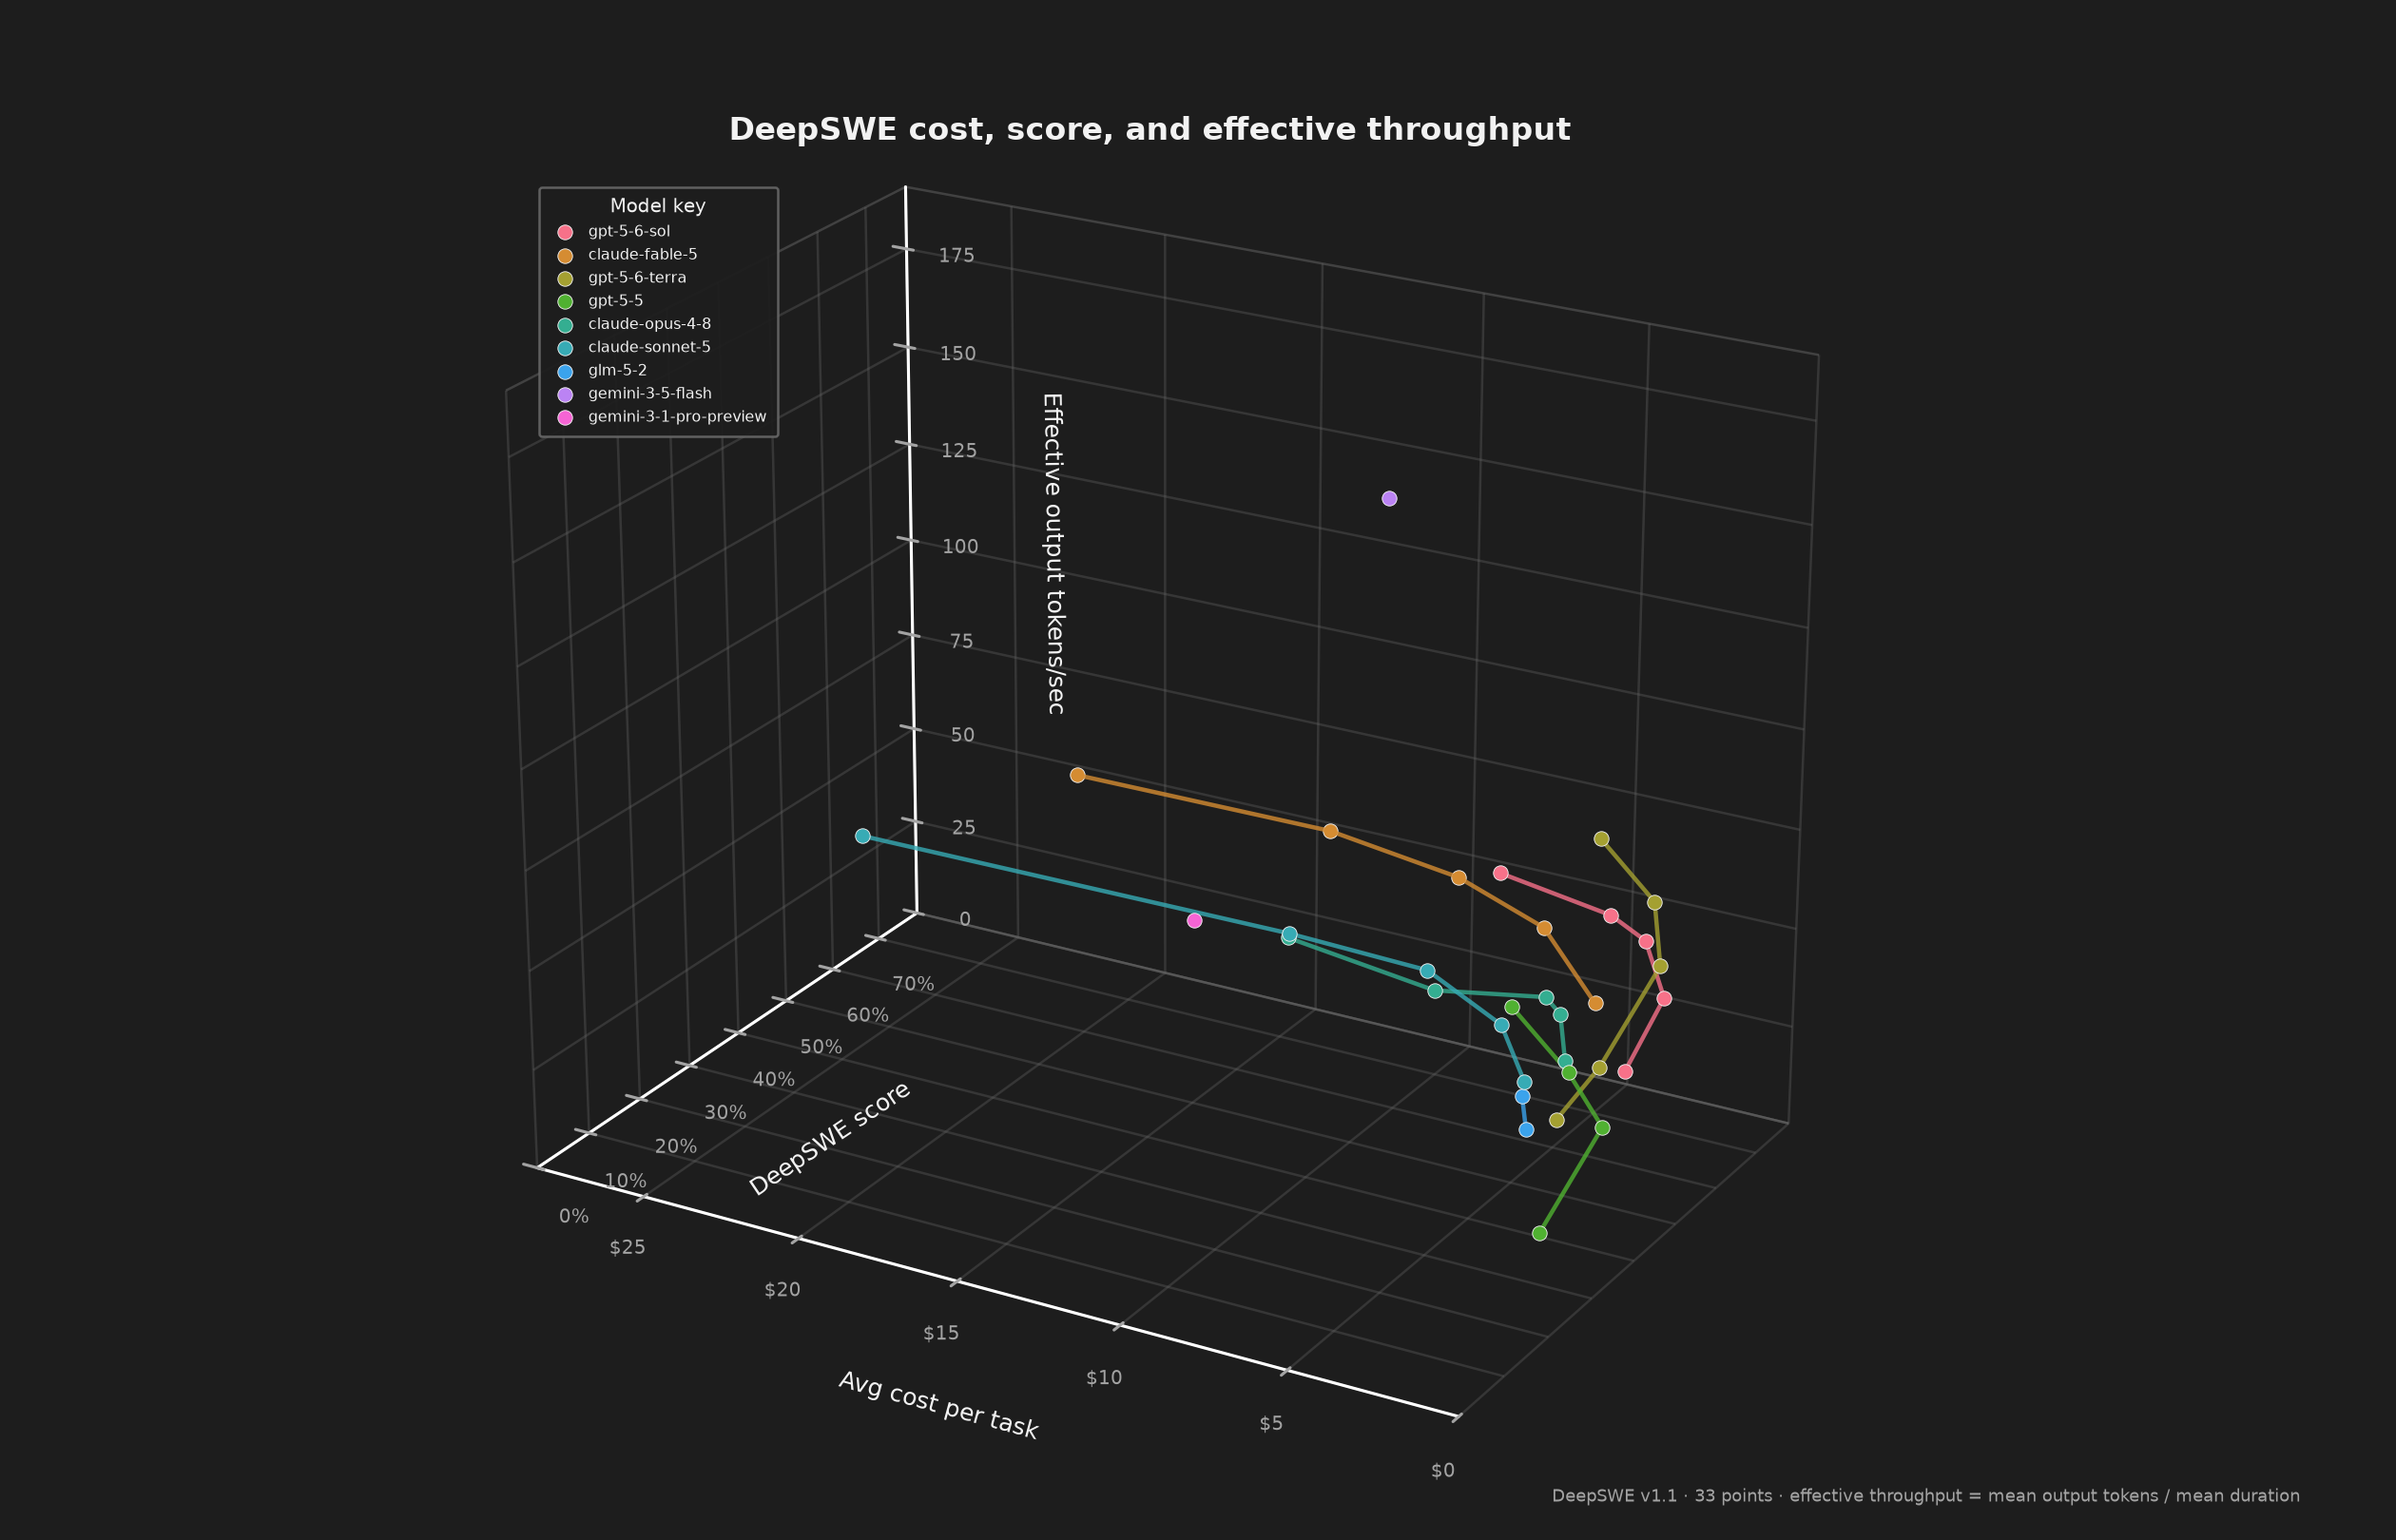
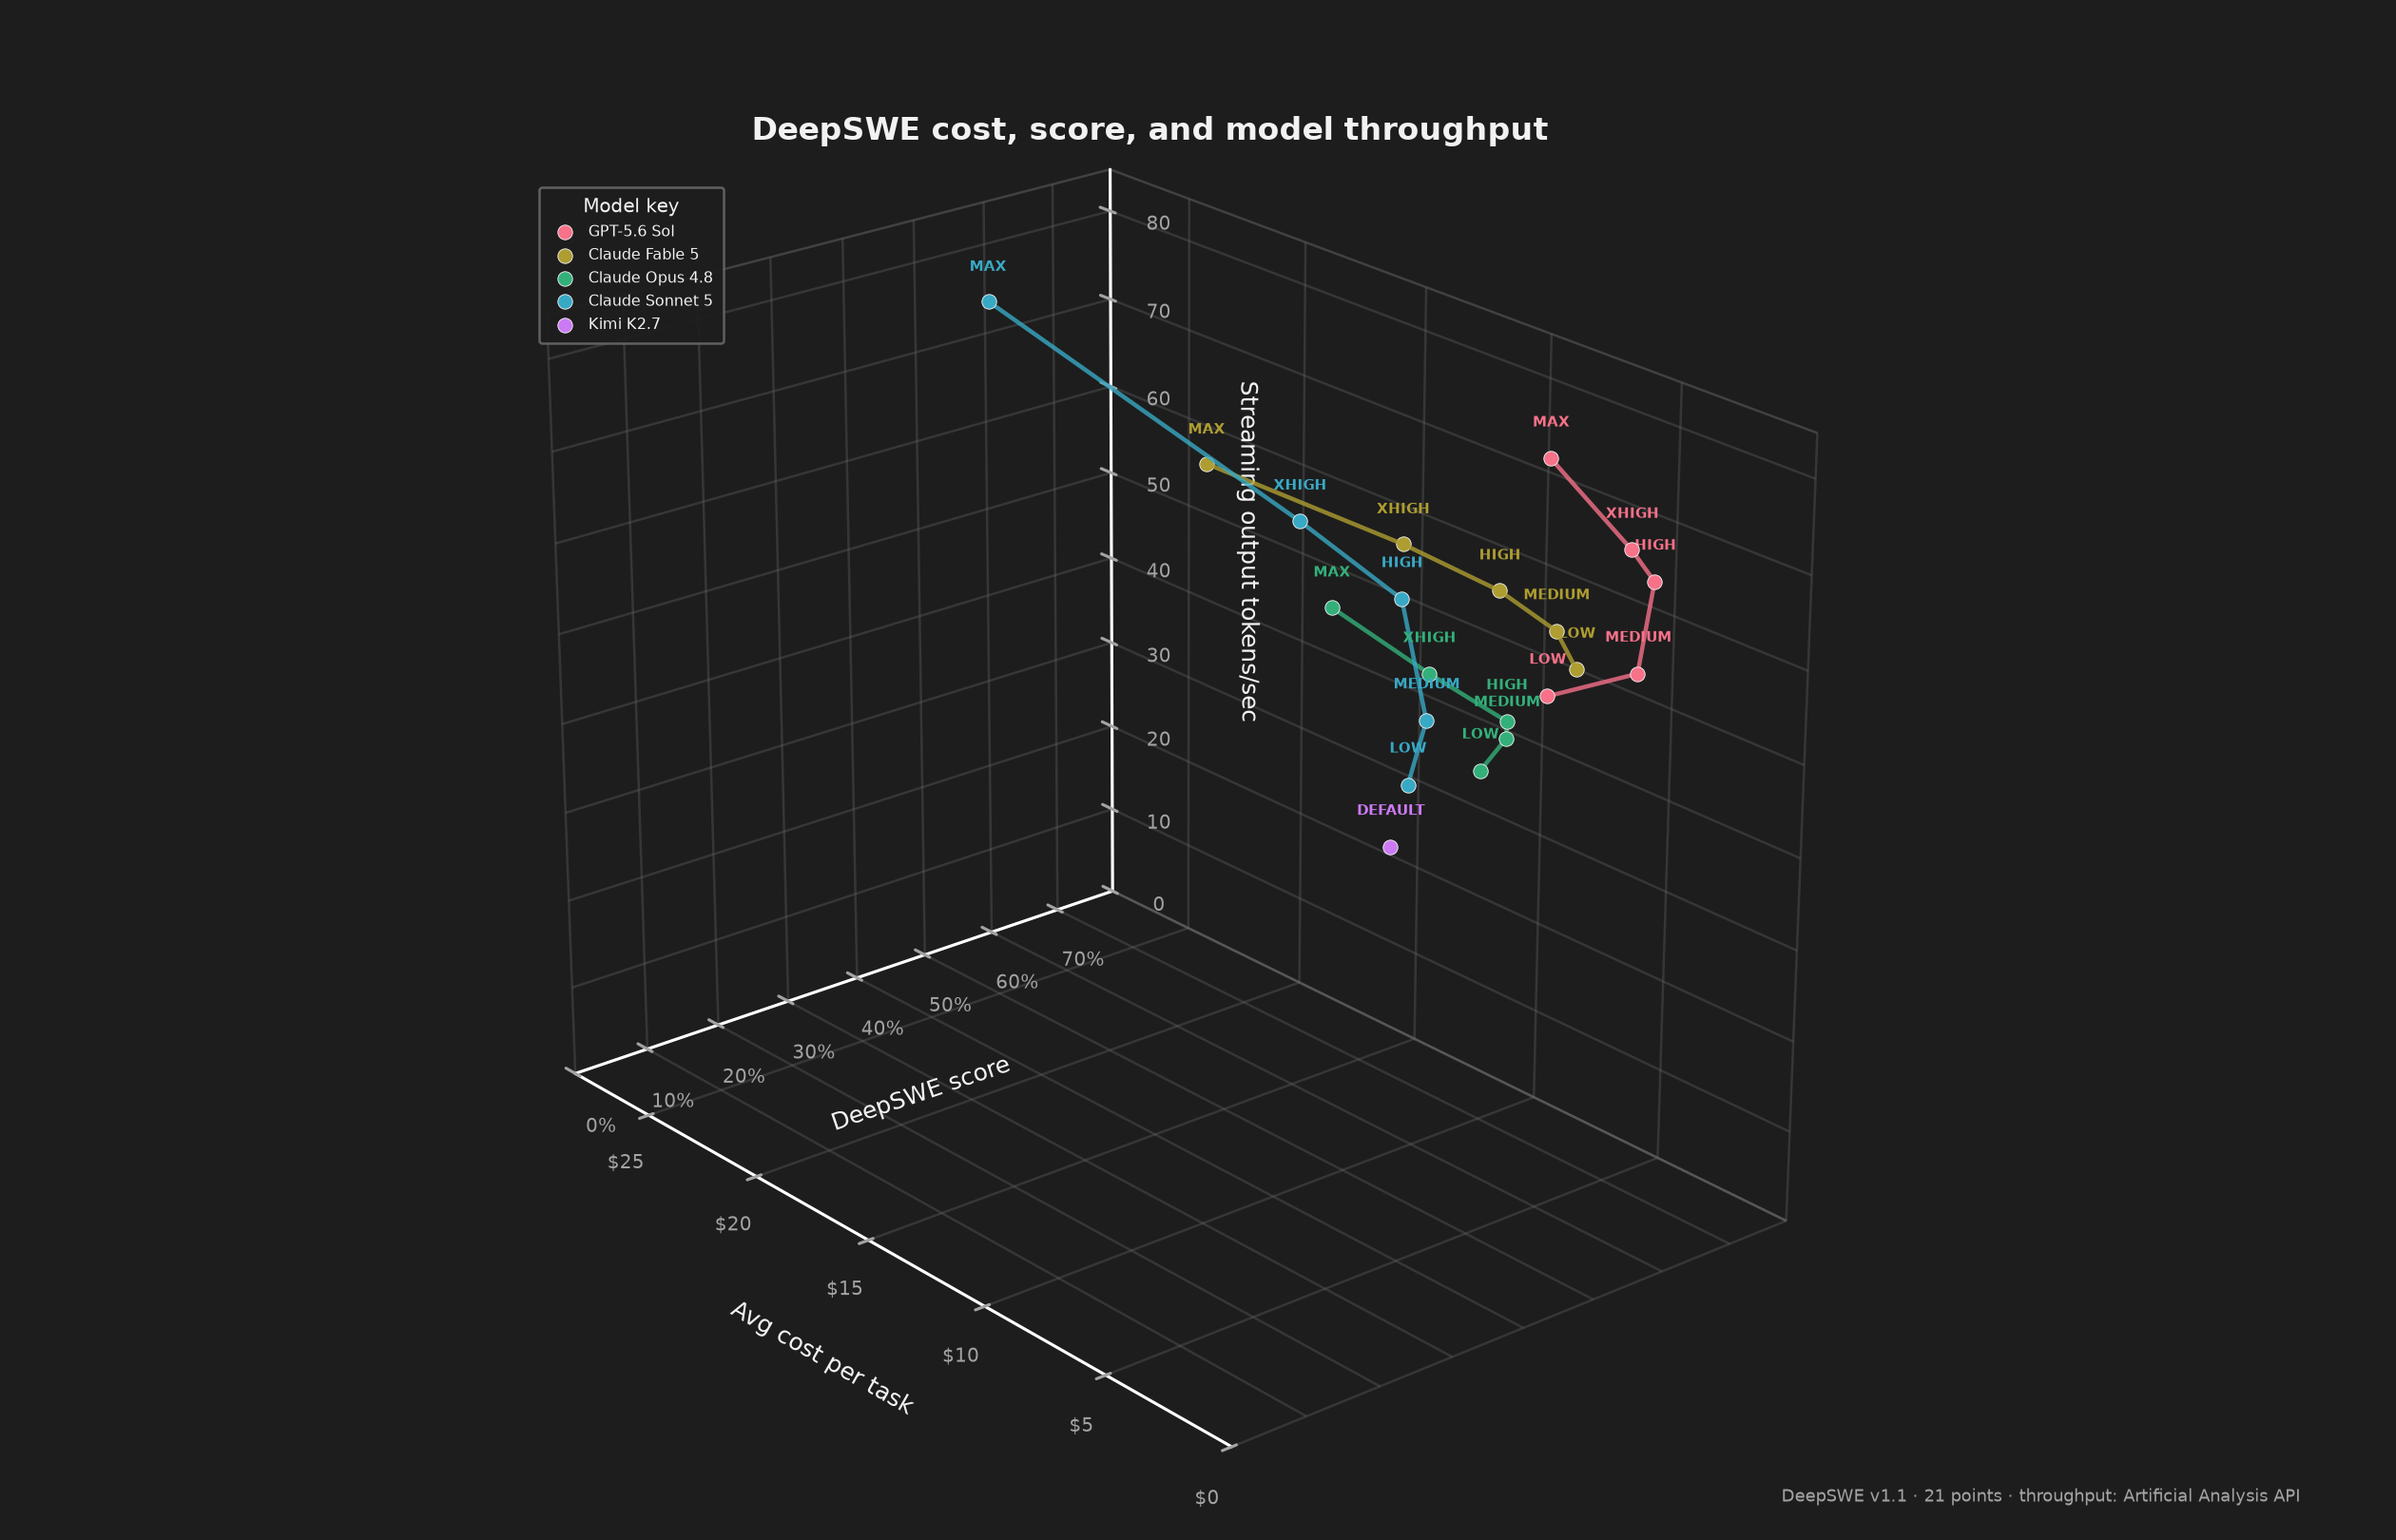
Add Artificial Analysis API integration and new cost-throughput chart

diff --git a/deepswe-score-chart.py b/deepswe-score-chart.py
@@ -1,55 +1,86 @@
 import argparse
 import json
+import os
 from collections import defaultdict
 from pathlib import Path
-from urllib.request import urlopen
+from urllib.request import Request, urlopen
 
 import matplotlib.pyplot as plt
 import seaborn as sns
+from dotenv import load_dotenv
 from matplotlib.colors import to_rgb
 from matplotlib.ticker import FuncFormatter
 
 
 DATA_URL = "https://deepswe.datacurve.ai/artifacts/v1.1/leaderboard-live.json"
+AA_API_URL = "https://artificialanalysis.ai/api/v2/language/models/free"
 OUTPUT_PATH = Path("deepswe-score-chart.png")
+SPEED_OUTPUT_PATH = Path("deepswe-cost-vs-speed-chart.png")
 FIGURE_SIZE = (14, 9)
 BACKGROUND_COLOR = "#1d1d1d"
 GRID_COLOR = "#666666"
 TEXT_COLOR = "#f2f2f2"
 MUTED_TEXT_COLOR = "#a3a3a3"
 EFFORT_ORDER = {"low": 0, "medium": 1, "high": 2, "xhigh": 3, "max": 4}
-EXCLUDED_MODELS = {
-    "claude-sonnet-4-6",
-    "gpt-5-4",
-    "gpt-5-6-luna",
-    "kimi-k2-7-code",
+MODEL_LABELS = {
+    "gpt-5-6-sol": "GPT-5.6 Sol",
+    "claude-fable-5": "Claude Fable 5",
+    "claude-opus-4-8": "Claude Opus 4.8",
+    "claude-sonnet-5": "Claude Sonnet 5",
+    "kimi-k2-7-code": "Kimi K2.7",
 }
 
 
 def main():
+    load_dotenv()
     parser = argparse.ArgumentParser(description="Generate the 3D DeepSWE chart")
     parser.add_argument("--show", action="store_true", help="Open the chart in a desktop window")
     args = parser.parse_args()
+    aa_api_key = os.environ.get("AA_API_KEY")
+    if not aa_api_key:
+        parser.error("AA_API_KEY is not set")
 
     with urlopen(DATA_URL, timeout=20) as response:
         payload = json.load(response)
 
+    aa_models = {}
+    page = 1
+    while True:
+        request = Request(
+            f"{AA_API_URL}?page={page}",
+            headers={"x-api-key": aa_api_key},
+        )
+        with urlopen(request, timeout=20) as response:
+            aa_payload = json.load(response)
+        aa_models.update({model["slug"]: model for model in aa_payload["data"]})
+        if not aa_payload["pagination"]["has_more"]:
+            break
+        page += 1
+
     series = defaultdict(list)
     for row in payload["rows"]:
-        if row["model"] in EXCLUDED_MODELS:
+        if row["model"] not in MODEL_LABELS:
             continue
         duration = row.get("mean_duration_seconds")
         output_tokens = row.get("mean_output_tokens")
         if not duration or output_tokens is None:
             continue
+        effort = row.get("reasoning_effort") or "default"
+        base_slug = row["model"]
+        effort_slug = f"{base_slug}-{effort}" if effort not in {"default", "max"} else base_slug
+        aa_model = aa_models.get(effort_slug) or aa_models.get(base_slug)
+        throughput = aa_model.get("performance", {}).get("median_output_tokens_per_second") if aa_model else None
+        if throughput is None:
+            continue
         series[row["model"]].append(
             {
                 "cost": row["mean_cost_usd"],
                 "score": row["pass_rate"] * 100,
-                "throughput": output_tokens / duration,
-                "effort": row.get("reasoning_effort") or "default",
+                "throughput": throughput,
+                "effort": effort,
             }
         )
+    series = {model: series[model] for model in MODEL_LABELS if model in series}
 
     sns.set_theme(style="darkgrid")
     figure = plt.figure(figsize=FIGURE_SIZE, facecolor=BACKGROUND_COLOR)
@@ -73,8 +104,20 @@ def main():
             linewidth=0.35,
             s=38,
             depthshade=False,
-            label=model,
+            label=MODEL_LABELS[model],
         )
+        for point in points:
+            ax.text(
+                point["cost"],
+                point["score"],
+                point["throughput"] + 3,
+                point["effort"].upper(),
+                color=color,
+                fontsize=6,
+                fontweight="bold",
+                ha="center",
+                va="bottom",
+            )
 
     all_points = [point for points in series.values() for point in points]
     max_cost = max(point["cost"] for point in all_points)
@@ -96,10 +139,10 @@ def main():
 
     ax.set_xlabel("Avg cost per task", color=TEXT_COLOR, fontsize=10, labelpad=10)
     ax.set_ylabel("DeepSWE score", color=TEXT_COLOR, fontsize=10, labelpad=10)
-    ax.set_zlabel("Effective output tokens/sec", color=TEXT_COLOR, fontsize=10, labelpad=12)
-    ax.set_title("DeepSWE cost, score, and effective throughput", color=TEXT_COLOR, fontsize=13, fontweight="bold")
+    ax.set_zlabel("Streaming output tokens/sec", color=TEXT_COLOR, fontsize=10, labelpad=12)
+    ax.set_title("DeepSWE cost, score, and model throughput", color=TEXT_COLOR, fontsize=13, fontweight="bold")
     ax.set_box_aspect((1.45, 1, 1.15), zoom=1.18)
-    ax.view_init(elev=23, azim=-60)
+    ax.view_init(elev=23, azim=-40)
     legend = ax.legend(
         loc="upper left",
         bbox_to_anchor=(0.01, 0.98),
@@ -120,7 +163,7 @@ def main():
     figure.text(
         0.96,
         0.025,
-        f"DeepSWE v1.1 · {len(all_points)} points · effective throughput = mean output tokens / mean duration",
+        f"DeepSWE v1.1 · {len(all_points)} points · throughput: Artificial Analysis API",
         color=MUTED_TEXT_COLOR,
         fontsize=7,
         ha="right",
@@ -130,6 +173,64 @@ def main():
     if args.show:
         plt.show()
     plt.close(figure)
+
+    speed_figure, speed_ax = plt.subplots(figsize=(11, 7), facecolor=BACKGROUND_COLOR)
+    speed_ax.set_facecolor(BACKGROUND_COLOR)
+    for model, points in series.items():
+        costs = [point["cost"] for point in points]
+        throughputs = [point["throughput"] for point in points]
+        color = model_colors[model]
+        speed_ax.plot(costs, throughputs, color=color, linewidth=1.8, alpha=0.8)
+        speed_ax.scatter(
+            costs,
+            throughputs,
+            color=color,
+            edgecolor=TEXT_COLOR,
+            linewidth=0.35,
+            s=42,
+            label=MODEL_LABELS[model],
+            zorder=3,
+        )
+        for point in points:
+            speed_ax.annotate(
+                point["effort"].upper(),
+                (point["cost"], point["throughput"]),
+                xytext=(4, 5),
+                textcoords="offset points",
+                color=color,
+                fontsize=6,
+                fontweight="bold",
+            )
+
+    speed_ax.set_xlim(max_cost * 1.08, 0)
+    speed_ax.set_ylim(0, max_throughput * 1.1)
+    speed_ax.xaxis.set_major_formatter(FuncFormatter(lambda value, _: f"${value:.0f}" if value else "$0"))
+    speed_ax.yaxis.set_major_formatter(FuncFormatter(lambda value, _: f"{value:.0f}"))
+    speed_ax.set_xlabel("Avg cost per task", color=TEXT_COLOR, fontsize=10, labelpad=10)
+    speed_ax.set_ylabel("Streaming output tokens/sec", color=TEXT_COLOR, fontsize=10, labelpad=10)
+    speed_ax.set_title("DeepSWE cost vs. model throughput", color=TEXT_COLOR, fontsize=13, fontweight="bold")
+    speed_ax.tick_params(colors=MUTED_TEXT_COLOR, labelsize=8)
+    speed_ax.grid(color=GRID_COLOR, linewidth=0.8, alpha=0.35)
+    for spine in speed_ax.spines.values():
+        spine.set_color(GRID_COLOR)
+        spine.set_alpha(0.5)
+    speed_legend = speed_ax.legend(
+        loc="upper left",
+        title="Model key",
+        facecolor=BACKGROUND_COLOR,
+        edgecolor=GRID_COLOR,
+        labelcolor=TEXT_COLOR,
+        fontsize=7,
+        title_fontsize=8,
+        framealpha=0.92,
+    )
+    speed_legend.get_title().set_color(TEXT_COLOR)
+    speed_figure.tight_layout()
+    speed_figure.savefig(SPEED_OUTPUT_PATH, dpi=180, facecolor=speed_figure.get_facecolor())
+    print(f"Chart saved to {SPEED_OUTPUT_PATH.resolve()}")
+    if args.show:
+        plt.show()
+    plt.close(speed_figure)
 
 
 if __name__ == "__main__":

diff --git a/README.md b/README.md
@@ -1,16 +1,21 @@
 # DeepSWE score chart
 
-A 3D Seaborn/Matplotlib view of the complete DeepSWE v1.1 leaderboard: average task cost on the x-axis, DeepSWE score on the y-axis, and effective output throughput on the z-axis. Every model/effort result is a true `(x, y, z)` point, and points from the same model are connected through 3D space.
+A 3D Seaborn/Matplotlib view of selected DeepSWE v1.1 leaderboard models: average task cost on the x-axis, DeepSWE score on the y-axis, and measured API streaming throughput on the z-axis. Every model/effort result is a true `(x, y, z)` point, and points from the same model are connected through 3D space.
 
 Generate the chart with:
 
 ```sh
+cp .env.example .env
+# Add your Artificial Analysis key to .env
 uv run deepswe-score-chart.py
 ```
 
-The image is written to `deepswe-score-chart.png`.
+The script writes two images:
 
-The script downloads the current [DeepSWE v1.1 leaderboard data](https://deepswe.datacurve.ai/artifacts/v1.1/leaderboard-live.json) when it runs. Effective throughput is calculated as `mean_output_tokens / mean_duration_seconds`, so it describes the complete coding-agent run rather than raw API streaming speed.
+- `deepswe-score-chart.png` — 3D cost, score, and throughput
+- `deepswe-cost-vs-speed-chart.png` — 2D cost versus throughput
+
+The script downloads cost and score from the current [DeepSWE v1.1 leaderboard](https://deepswe.datacurve.ai/artifacts/v1.1/leaderboard-live.json). It retrieves median streaming output tokens per second from the [Artificial Analysis API](https://artificialanalysis.ai/data-api/docs). Artificial Analysis attribution is required by its API terms.
 
 To also open it in a desktop window:
 
